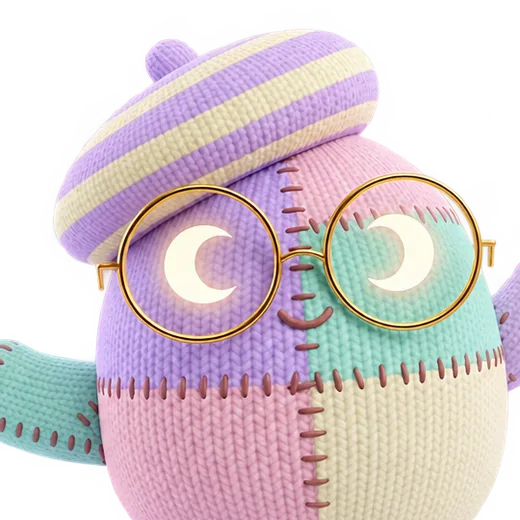
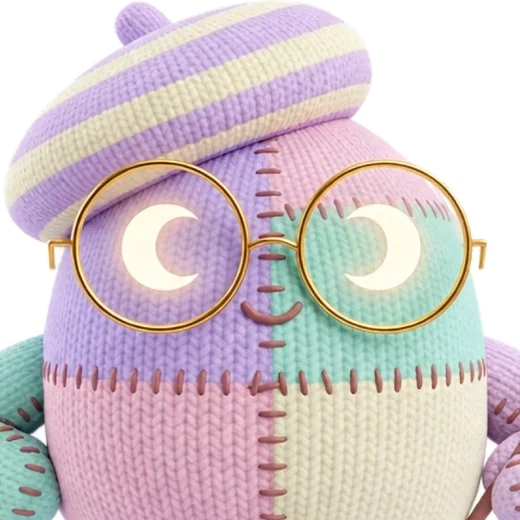
feat(tutor): нейтральные лица Луны, Спарка и Айзере от владельца
Анимаций у них пока нет (они только у Декстера), поэтому в рамке и в кружках
«Другие тьюторы» временно стоит одно нейтральное лицо. Картинки владельца с
белым фоном: фон срезан заливкой от краёв, кадр — как у лица Декстера.

diff --git a/src/tutor/TutorPortrait.jsx b/src/tutor/TutorPortrait.jsx
@@ -7,8 +7,9 @@ import { useState } from 'react'
 //
 // Эмоции нарисованы только у Декстера (компонент «Dexter Flat» на странице
 // «АВАТАР ТЬЮТОРА»: нейтрально, радуется, думает, удивляется) — это его
-// tutor.portraits. Остальным макет лица не дал: у них одно лицо, а состояние
-// звонка видно по движению (говорит — покачивается, думает — наклоняется).
+// tutor.portraits. У остальных анимаций пока нет — временно одно нейтральное
+// лицо, а состояние звонка видно по движению (говорит — покачивается, думает —
+// наклоняется).
 // «Слушает» у Декстера в макете совпадает с «удивляется» — тогда он весь звонок
 // слушал бы с открытым ртом, поэтому слушает он нейтральным лицом.
 const VARIANT = {

diff --git a/src/tutor/tutors.js b/src/tutor/tutors.js
@@ -18,8 +18,9 @@
 //  stage    — фон сцены карточки (у каждого свой тон);
 //  portrait — лицо в рамке на странице тьютора (TutorPortrait). У Декстера это
 //             его «Dexter Flat» в кадре рамки, и эмоций у него четыре
-//             (portraits — по ключу эмоции TutorPortrait); остальным макет лица
-//             не нарисовал — вырезано из той же фигурки с тем же кадром;
+//             (portraits — по ключу эмоции TutorPortrait); остальным анимаций
+//             пока нет — временно нейтральное лицо (картинки владельца
+//             29.10.2026, белый фон срезан, кадр как у Декстера);
 //  tint     — фон под лицом: в рамке и в кружке «Другие тьюторы».
 import { JARVIS_ENABLED } from '../config.js'
 

diff --git a/CLAUDE.md b/CLAUDE.md
@@ -1509,7 +1509,8 @@ JTS-бэкенд (`src/learning/lessonProgress.js`).
 расшифровки, шпаргалки и переключателя режима в звонке нет (решение владельца «пока строго по макету»); часы сцены
 идут по-прежнему — по ним обрывается линия. Нижняя панель телефона в звонке есть, как в кадрах. Лицо в рамке — сам
 персонаж: картинки `public/tutor/v2/` (экспорт узлов; эмоции нарисованы только у Декстера — «Dexter Flat»:
-нейтрально, радуется, думает, удивляется, `tutor.portraits`), абстрактное лицо Speaking Buddy (`TutorFace`,
+нейтрально, радуется, думает, удивляется, `tutor.portraits`; у Луны, Спарка и Айзере анимаций пока нет — временно
+нейтральное лицо из картинок владельца, белый фон срезан), абстрактное лицо Speaking Buddy (`TutorFace`,
 `buddyRig.js`) экраном больше не рисуется. Стили — блок «Выбор тьютора и страница тьютора» в `tutor.css` (`tp-*`)
 и раздел в `src/mobile/tutor.css`. Заголовок раздела на телефоне — «Speaking Buddy» (`nav.tutor`), а не «AI-тьютор»
 кадра: имя раздела одно (решение 27.10).
